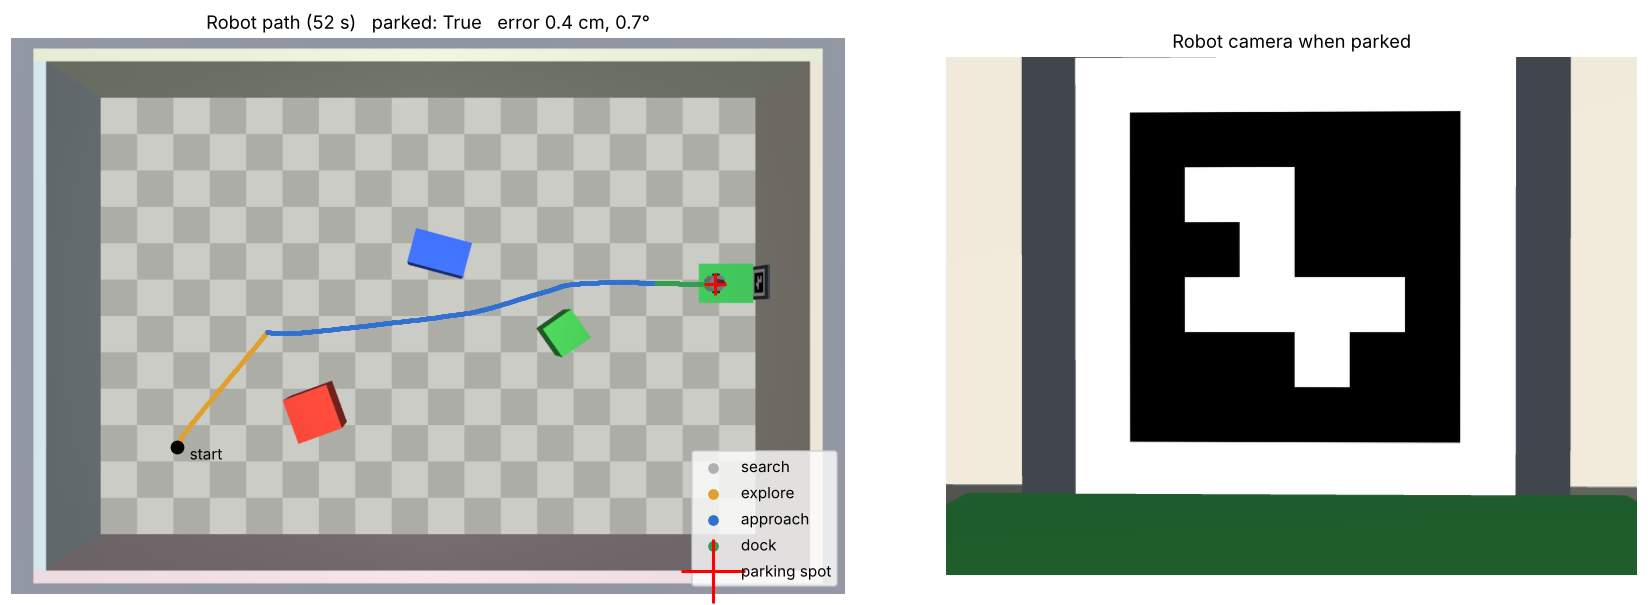
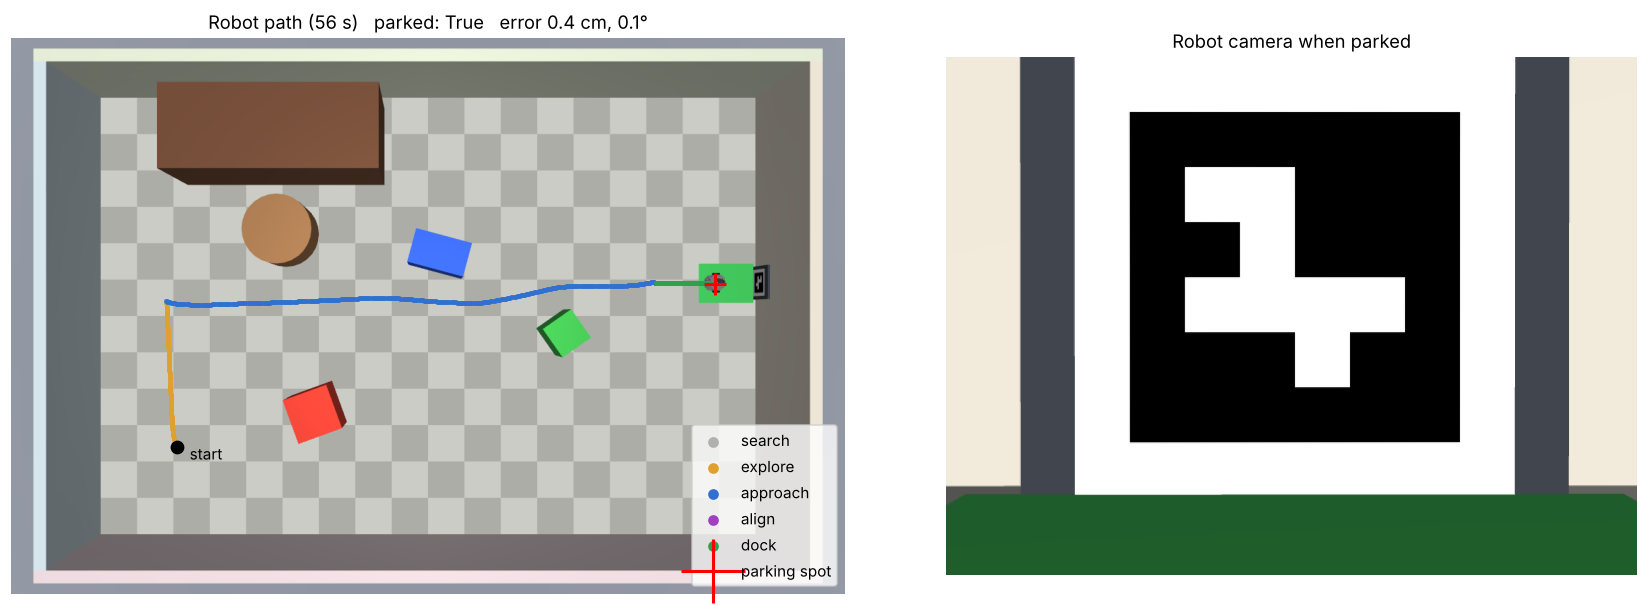
Add a sofa and coffee table to the room; add docking video to run_docking notebook
- world.py: sofa (box along the north wall) and round coffee table in front of it
- run_docking.ipynb: room description and a cell that records and shows a docking video
- Re-ran 20 episodes: 20/20 parked, 0 collisions; page numbers and picture updated

Claude-Session: https://claude.ai/code/session_01EEnVFPNYiECkDQfjfRa85N

diff --git a/index.html b/index.html
@@ -139,7 +139,7 @@
 
     <section>
       <h2>Our understanding</h2>
-      <p>MoBot is a simulated TurtleBot3 Burger (a small two-wheeled robot) in a 6 m &times; 4 m room built in MuJoCo, a physics simulator. The room has three boxes in the way and a charging dock on one wall with an ArUco tag on it. The robot starts somewhere in the room, often facing away from the dock, and has to find the dock and park in front of it on its own.</p>
+      <p>MoBot is a simulated TurtleBot3 Burger (a small two-wheeled robot) in a 6 m &times; 4 m room built in MuJoCo, a physics simulator. The room has three boxes, a sofa and a round coffee table in the way, and a charging dock on one wall with an ArUco tag on it. The robot starts somewhere in the room, often facing away from the dock, and has to find the dock and park in front of it on its own.</p>
       <p>The robot is only allowed to use its own sensors: a front camera, a 360&deg; LiDAR, wheel encoders and a gyro. It is never told where it is, so everything it knows has to be worked out from these readings.</p>
       <p>Each control step (20 times a second) goes through the same loop: <strong>sense &rarr; estimate &rarr; plan &rarr; control</strong>.</p>
       <ol class="steps">
@@ -147,8 +147,8 @@
         <li><strong>Knowing where it is (estimator).</strong> The wheel encoders measure how far the robot has driven and the gyro measures how much it has turned. Adding these up gives the robot's position. We first used the wheels for turning too, but they slip slightly when spinning on the spot, which made the heading drift by about 6&deg; per spin, so we switched to the gyro. Every sighting of the tag updates where the robot thinks the dock is, with close-up sightings trusted more than far-away ones.</li>
         <li><strong>Deciding what to do (planner).</strong> The robot works through these stages:
           <br><em>Search:</em> spin on the spot looking for the tag.
-          <br><em>Explore:</em> if a box blocks the view, drive to a new open spot (chosen from the LiDAR) and search again.
-          <br><em>Approach:</em> drive to a point 0.8 m straight out from the dock. The LiDAR checks the path ahead and steers around any box in the way.
+          <br><em>Explore:</em> if something blocks the view, drive to a new open spot (chosen from the LiDAR) and search again.
+          <br><em>Approach:</em> drive to a point 0.8 m straight out from the dock. The LiDAR checks the path ahead and steers around any box or furniture in the way.
           <br><em>Align:</em> turn on the spot to face the dock square-on.
           <br><em>Dock:</em> creep in along the dock's centre line, slowing down, and stop 0.35 m from the tag.</li>
         <li><strong>Driving (controller).</strong> The plan is turned into a forward speed and a turning speed. The robot turns towards its target and only drives forward once it is roughly facing it, which keeps the path smooth.</li>
@@ -157,27 +157,27 @@
 
     <section>
       <h2>Output and results</h2>
-      <p>The robot parked successfully from every starting position we tested, without touching any box or wall.</p>
+      <p>The robot parked successfully from every starting position we tested, without touching any box, furniture or wall.</p>
       <div class="stats">
         <div class="stat"><b>20 / 20</b><span>runs parked</span></div>
         <div class="stat"><b>0</b><span>collisions</span></div>
         <div class="stat"><b>0.6 cm</b><span>average position error</span></div>
-        <div class="stat"><b>1.1&deg;</b><span>average angle error</span></div>
+        <div class="stat"><b>1.3&deg;</b><span>average angle error</span></div>
       </div>
       <figure>
-        <img src="docking_path.png" alt="Overhead view of the room showing the robot's path from the start, around the boxes, to the dock, next to the robot's camera view of the ArUco tag when parked">
-        <figcaption>Left: the robot's path from the default start, coloured by stage. The red box blocks the view at first, so it explores, spots the tag, steers between the boxes and docks. Right: what the camera sees once parked.</figcaption>
+        <img src="docking_path.png" alt="Overhead view of the room showing the robot's path from the start, around the boxes and furniture, to the dock, next to the robot's camera view of the ArUco tag when parked">
+        <figcaption>Left: the robot's path from the default start, coloured by stage. The red box blocks its view of the dock at first, so it explores, spots the tag, drives between the coffee table and the boxes, and docks. Right: what the camera sees once parked.</figcaption>
       </figure>
       <table>
         <tr><th>Measure</th><th>Target</th><th>Default start</th><th>Worst of 20 runs</th></tr>
         <tr><td>Parking position error</td><td>&le; 5 cm</td><td>0.4 cm</td><td>1.4 cm</td></tr>
-        <tr><td>Parking angle error</td><td>&le; 5&deg;</td><td>0.7&deg;</td><td>3.6&deg;</td></tr>
-        <tr><td>Time to park</td><td>&ndash;</td><td>52 s</td><td>83 s</td></tr>
+        <tr><td>Parking angle error</td><td>&le; 5&deg;</td><td>0.1&deg;</td><td>3.4&deg;</td></tr>
+        <tr><td>Time to park</td><td>&ndash;</td><td>56 s</td><td>90 s</td></tr>
       </table>
       <p><strong>What we fixed along the way</strong></p>
       <ul>
         <li><strong>Twisting at the end:</strong> at first the robot aimed at a point right under its nose as it arrived, so it twisted and parked 19&deg; crooked. Aiming at a point 25 cm ahead along the dock's centre line fixed it.</li>
-        <li><strong>Heading drift:</strong> switching from wheel-based to gyro-based turning cut the position estimate error from about 30 cm to about 8 cm.</li>
+        <li><strong>Heading drift:</strong> switching from wheel-based to gyro-based turning cut the position estimate error from about 30 cm to under 15 cm.</li>
         <li><strong>Bad tag readings:</strong> from 5 m away, one tag reading came back invalid and crashed the run. The estimator now ignores readings like that.</li>
       </ul>
       <p>To reproduce these results, open <code>notebooks/run_docking.ipynb</code> in Google Colab and run the cells in order.</p>
